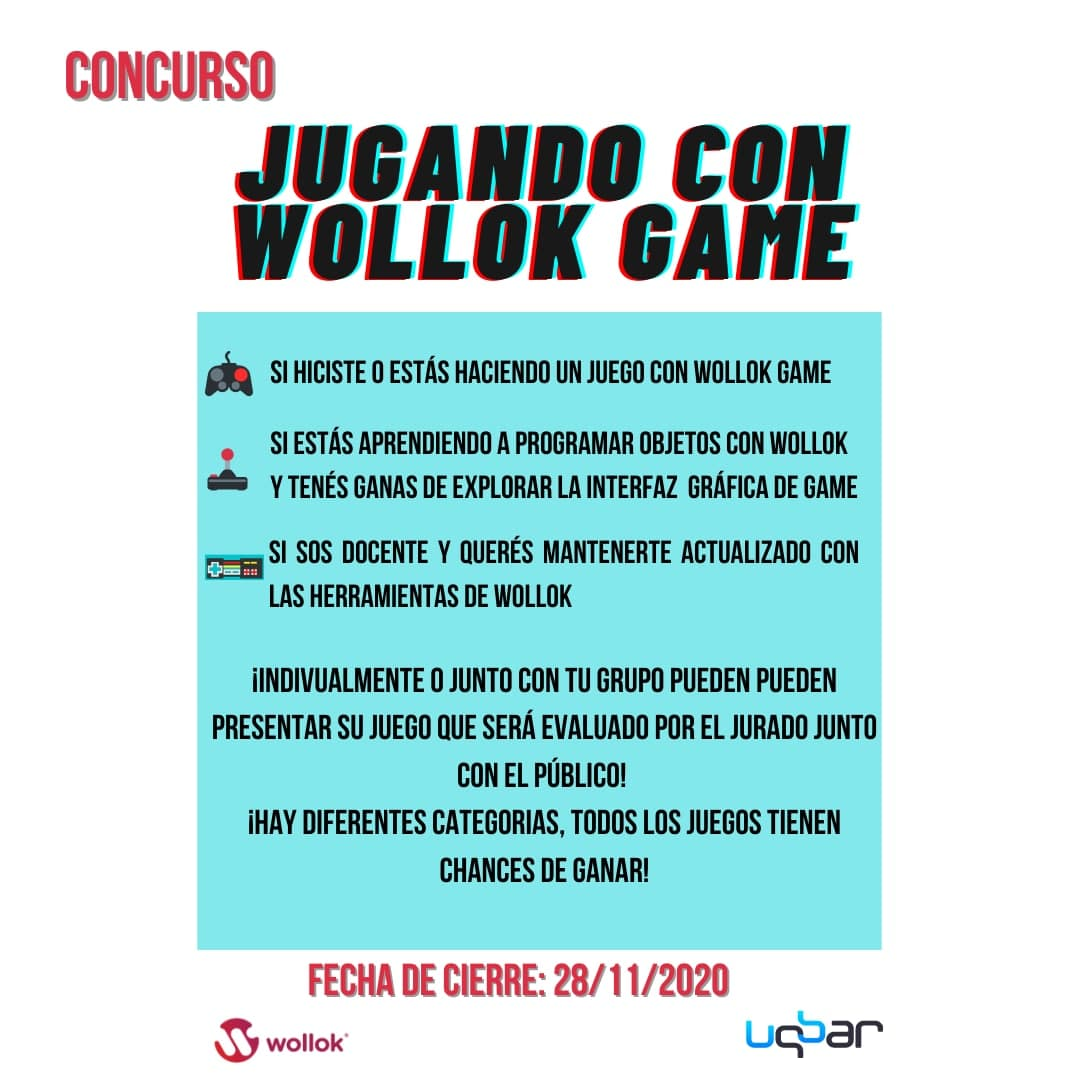
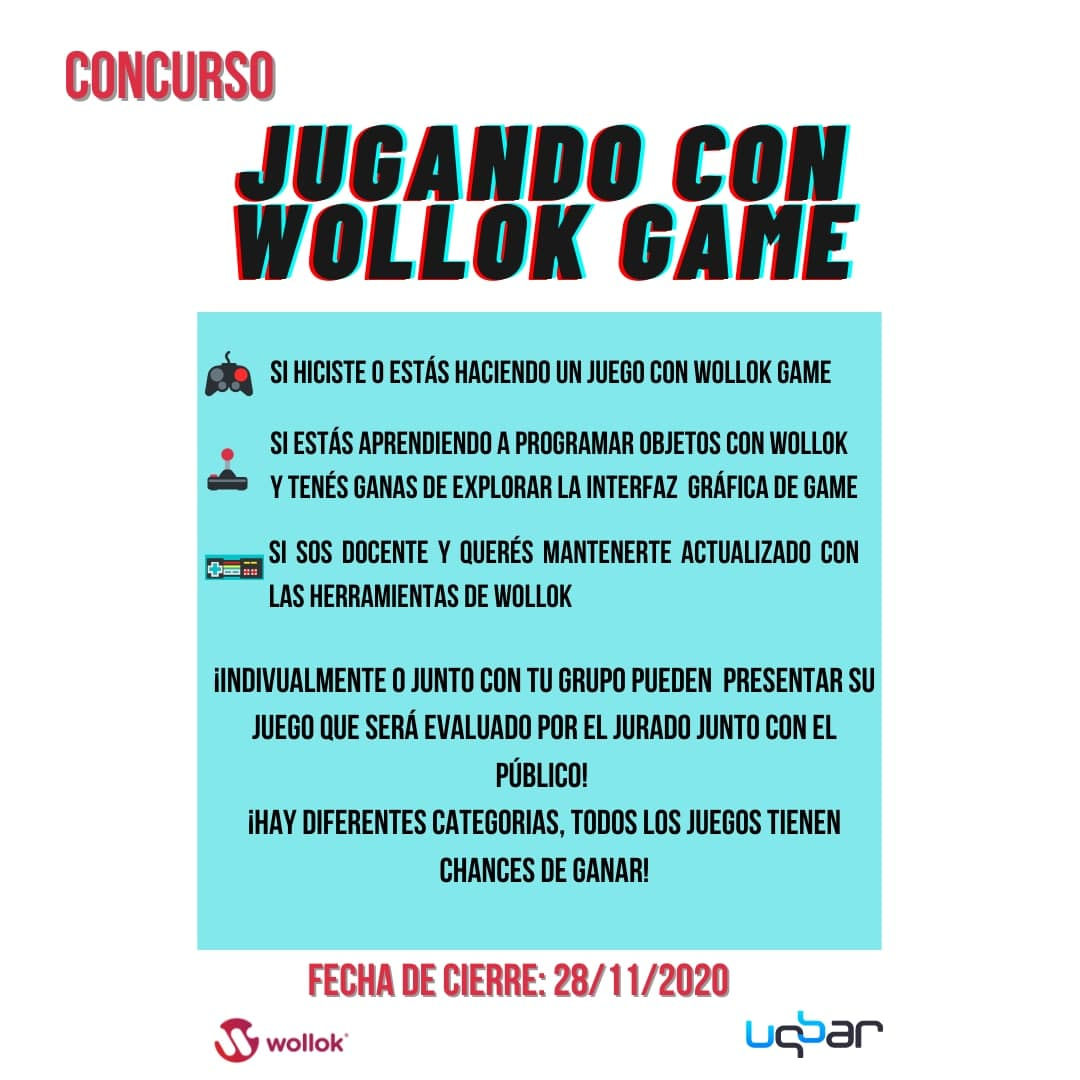
Ups.. fix más typos

Changed region(s): [[0.1833, 0.6111, 0.825, 0.7333]]

diff --git a/src/components/eventos/Index.js b/src/components/eventos/Index.js
@@ -16,7 +16,7 @@ export default function Eventos() {
           link="https://docs.google.com/document/d/1mpsdbLlw2Y5r6hCcxQilL3LFHzuXUZ16xmAOGT8F9-w/view"
           projectLogo={concursoWollokGame2020}
           projectName="Concurso Wollok Game"
-          projectDescription="Si hiciste o estás haciendo un juego con Wollok Game, si estás aprendiendo a programar en objetos con Wollok y tenés ganas de explorar la interfaz gráfica de Game, si sos docente y queres mantenerte actualizado con las herramientas de Wollok, ¡este concurso es para vos! Junto con tu grupo, o individualmente, pueden hacer el juego que prefieran, presentarlo, que sea analizado por el jurad y que el público dé su opinión."
+          projectDescription="Si hiciste o estás haciendo un juego con Wollok Game, si estás aprendiendo a programar en objetos con Wollok y tenés ganas de explorar la interfaz gráfica de Game, si sos docente y queres mantenerte actualizado con las herramientas de Wollok, ¡este concurso es para vos! Junto con tu grupo, o individualmente, pueden hacer el juego que prefieran, presentarlo, que sea analizado por el jurado y que el público dé su opinión."
         />
         <UqbarCard
           link="https://docs.google.com/document/d/e/2PACX-1vR0H_oeXpi7sVUwNQrdkwYqLOyY4stEBEAIkQlWEyCq7X_5lEHTSPZCgZUBdBFa1o4v3L5fivlhCz9q/pub"
